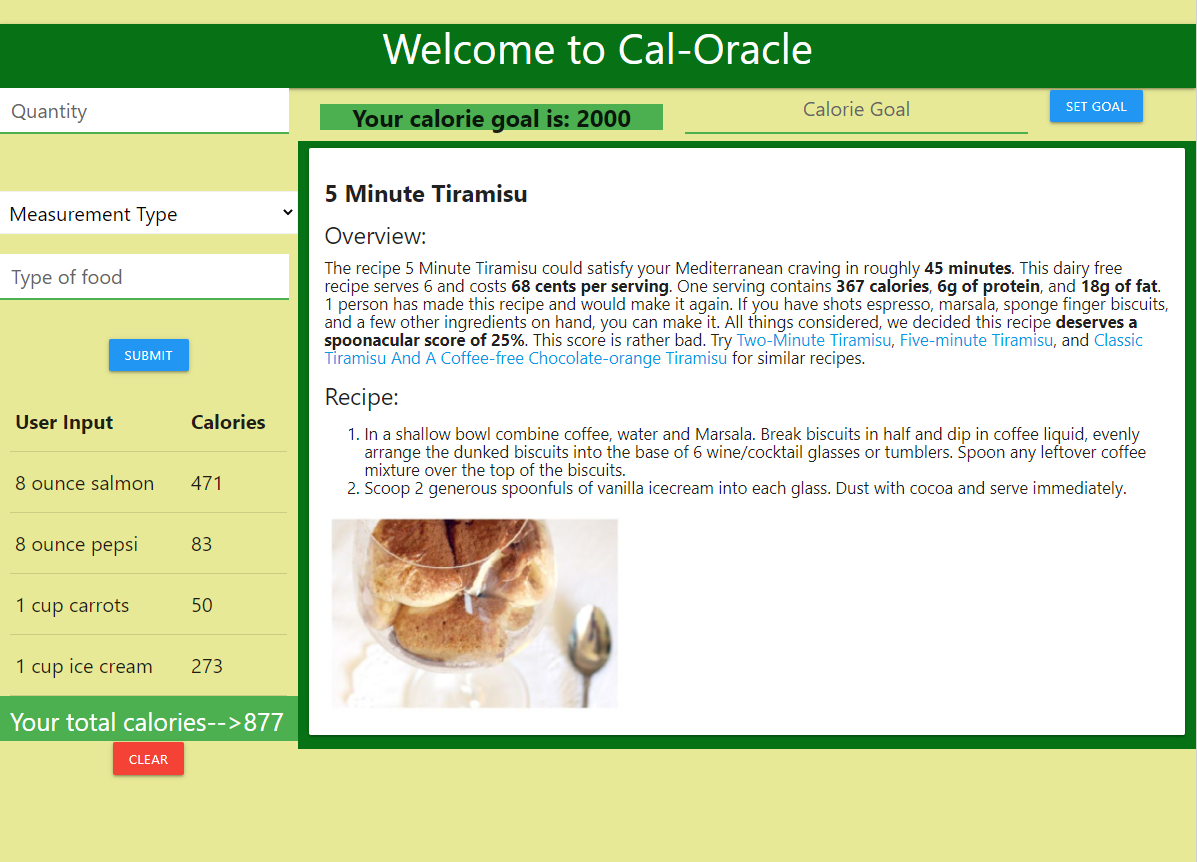
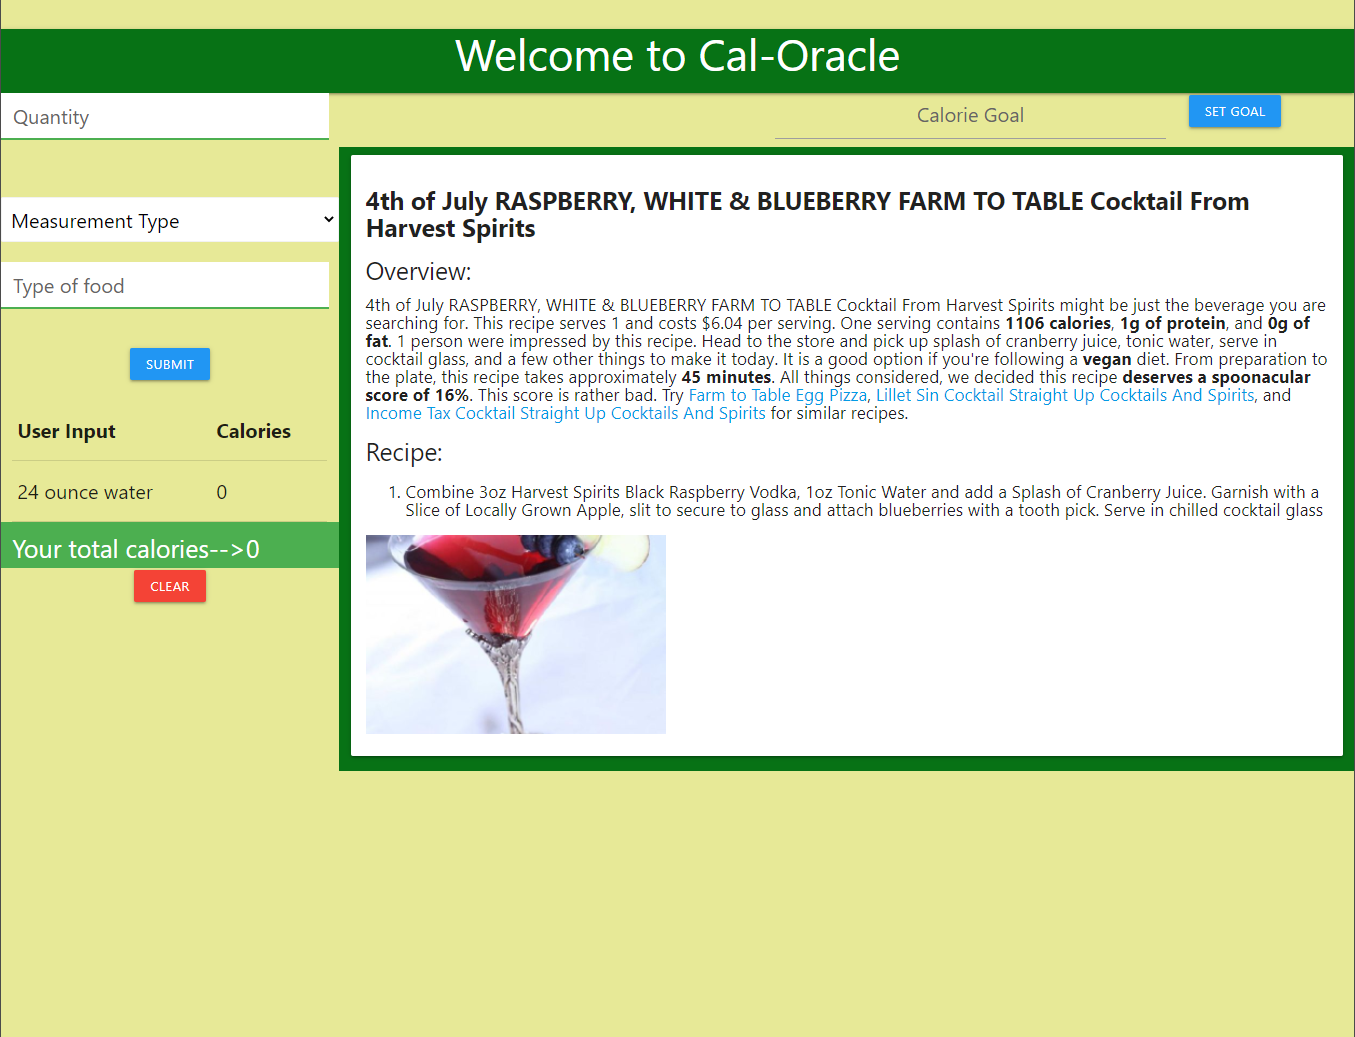
added cal-oracle png carousel.

diff --git a/index.html b/index.html
@@ -210,9 +210,25 @@
 						<p>Easy way to track your caloric intake and stay within your daily goal.</p>
 					</div>
 				</header>
-				<a href="https://chadclark1234.github.io/Group-Project-1/" target="_blank" class="image featured"><img
-						src="./assets/images/CalOracle/Cal-Oracle.PNG" alt="cal-Oracle" /></a>
-				<p>I was part of a four-man team to work on this project. This app was built for a calorie-conscious
+				<!-- Flickity HTML init -->
+				<div class="carousel js-flickity" data-flickity-options='{ "cellAlign": "center", "contain": true }'>
+					<div class="carousel-cell">
+						<img src="./assets/images/CalOracle/Cal-Oracle.PNG" alt="Cal-Oracle" />
+					</div>
+					<div class="carousel-cell">
+						<img src="./assets/images/CalOracle/Cal-Oracle1.PNG" alt="Cal-Oracle" />
+					</div>
+					<div class="carousel-cell">
+						<img src="./assets/images/CalOracle/Cal-Oracle2.PNG" alt="Cal-Oracle" />
+					</div>
+					<div class="carousel-cell">
+						<img src="./assets/images/CalOracle/Cal-Oracle3.PNG" alt="Cal-Oracle" />
+					</div>
+					<div class="carousel-cell">
+						<img src="./assets/images/CalOracle/Cal-Oracle4.PNG" alt="Cal-Oracle" />
+					</div>
+				</div>
+				<p class="summarySpacing">I was part of a four-man team to work on this project. This app was built for a calorie-conscious
 					user who wants to track their daily caloric intake. The user's daily goal is displayed at the top of
 					the page and as the user enters the quantity and type of food, the total of calories consumed that
 					day is displayed at the bottom of the page. As the user approaches the daily goal, the box
